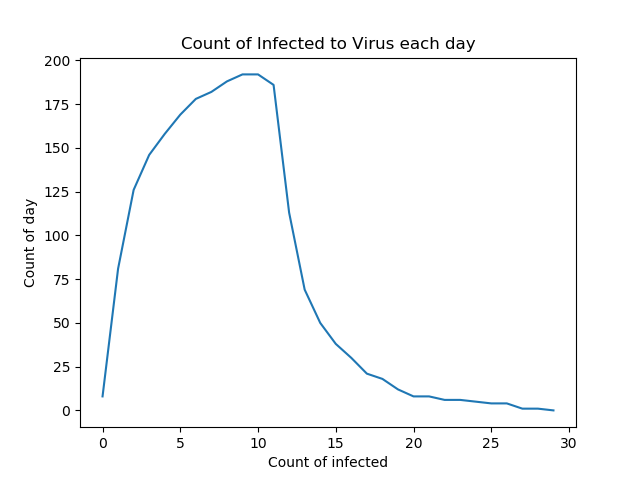
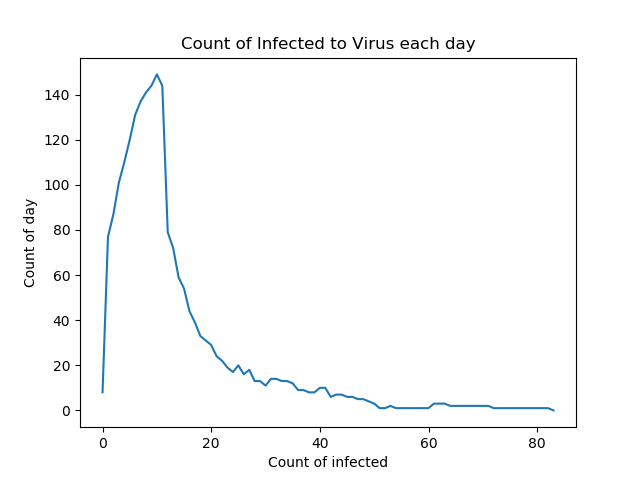
update readme

diff --git a/random_walk.py b/random_walk.py
@@ -106,7 +106,7 @@ if __name__ == "__main__":
     n_individu = 200
 
     ratio_infec = 5
-    prob_moving = 20
+    prob_moving = 200
     day_to_recover = 10
 
     history = []
@@ -154,10 +154,11 @@ if __name__ == "__main__":
     plt.title("Count of Infected to Virus each day")
     plt.savefig('infected_line_chart.png')
 
-
     fig, _ = plt.subplots()
     axes = plt.axes(xlim=(x_min, x_max), ylim=(x_min, x_max))
     colors = ['red', 'blue', 'green']
+    
+    axes.legend()
 
     individus = []
     x_anim = []

diff --git a/README.md b/README.md
@@ -1,0 +1,3 @@
+red = Infected
+blue = Healthy
+green = Imune
